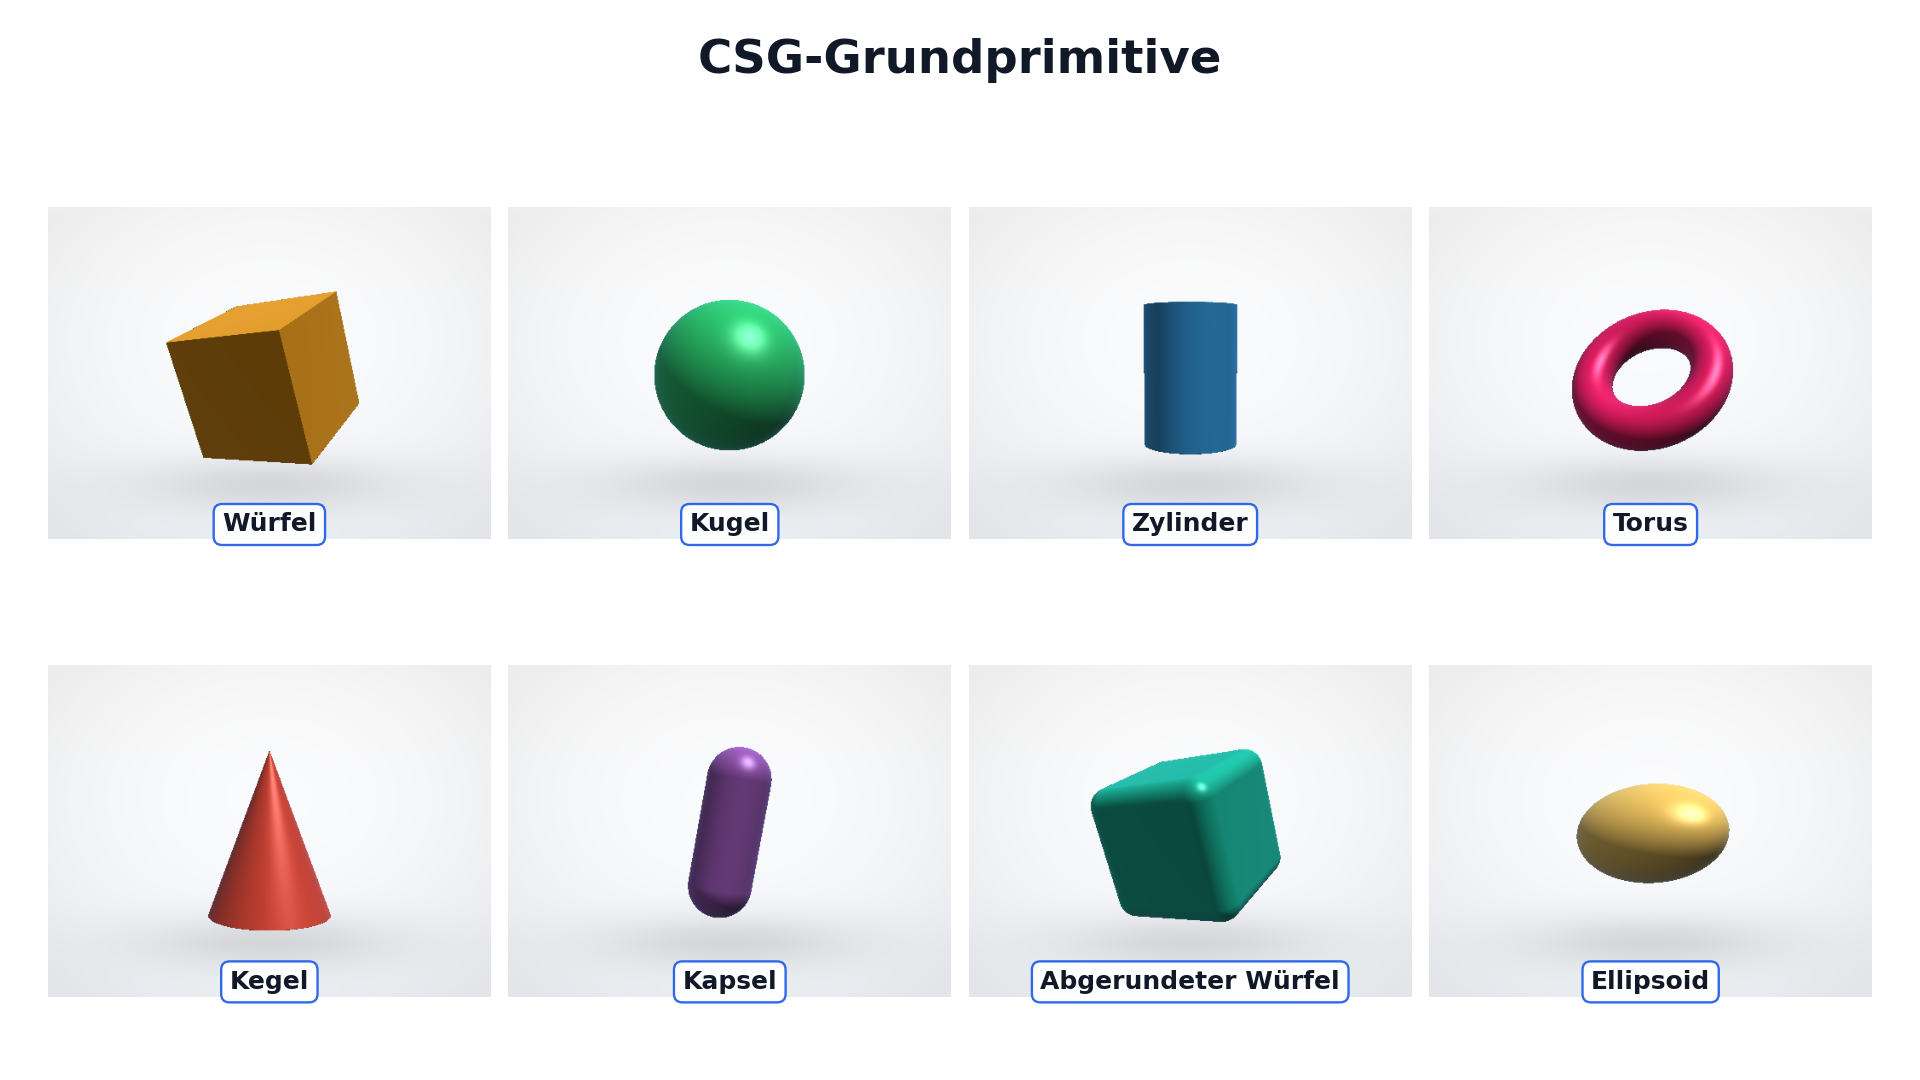
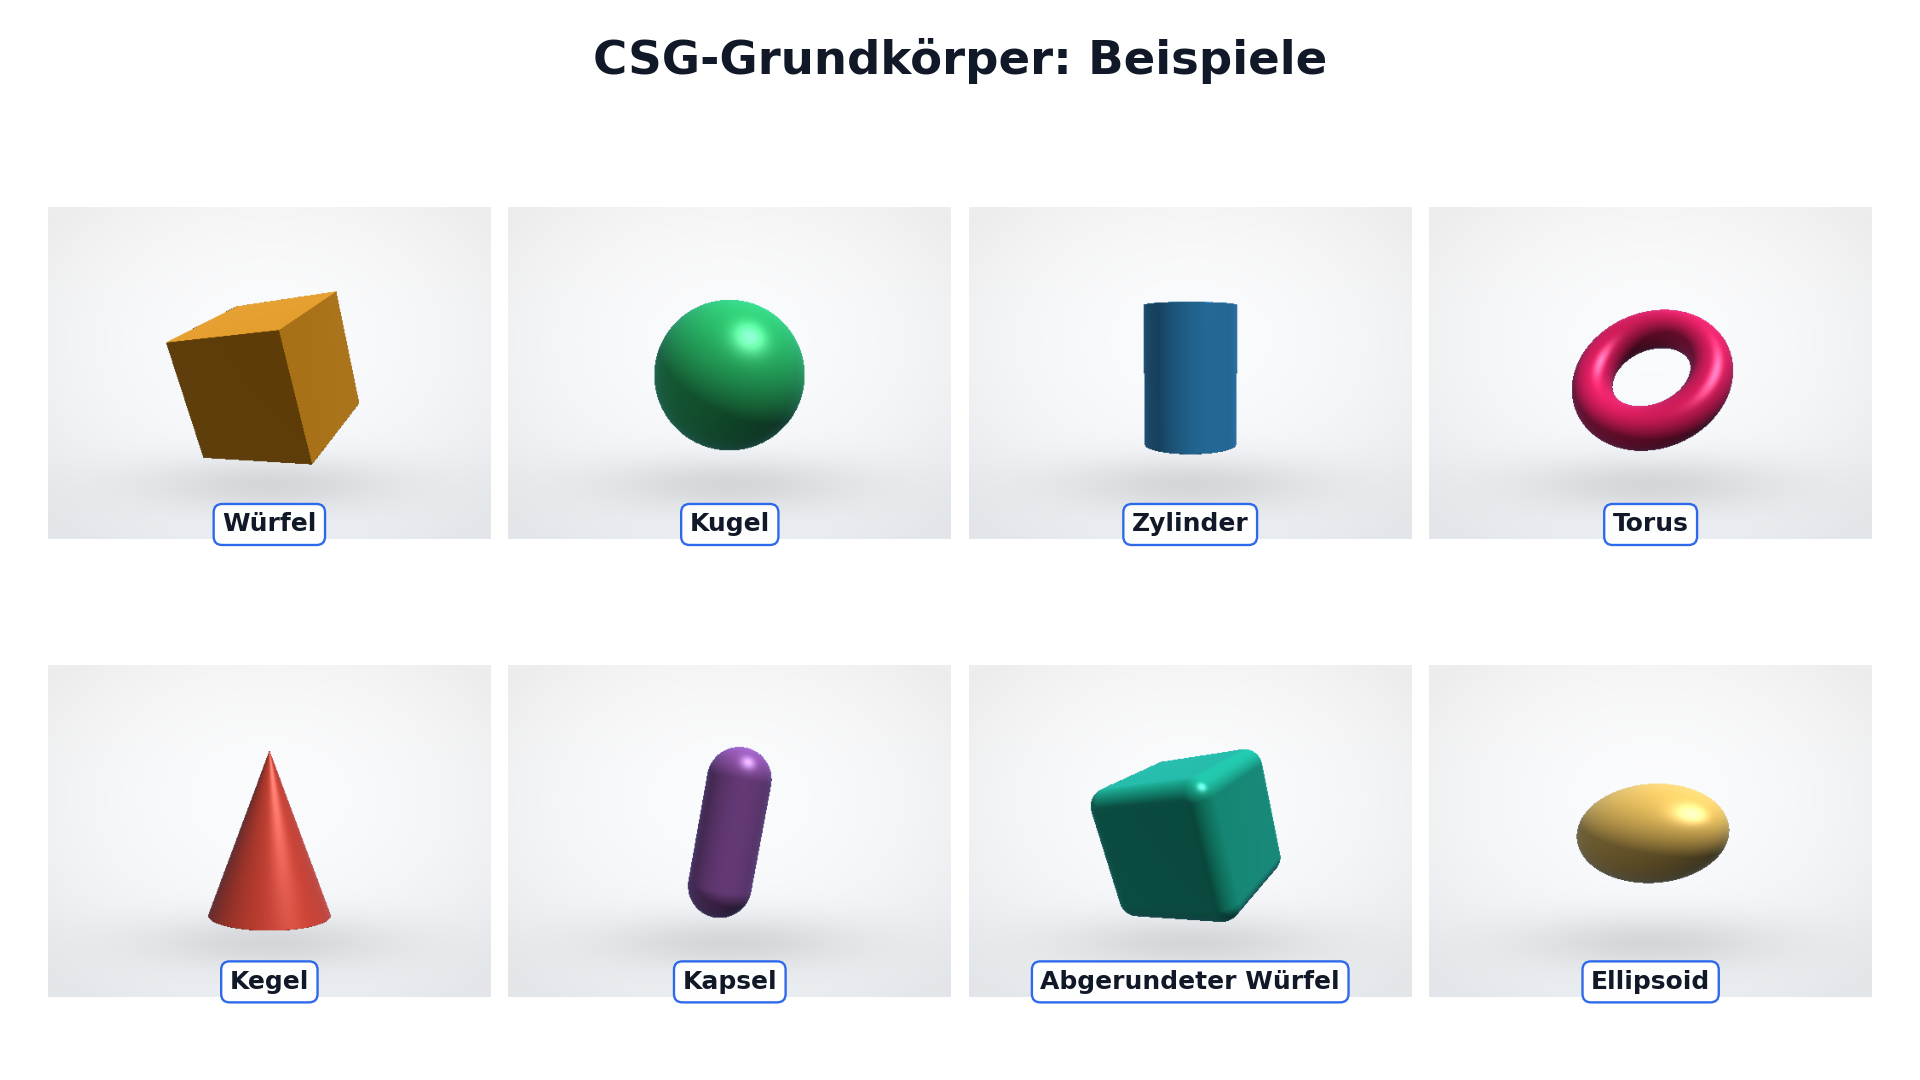
edit picture

Changed region(s): [[0.3125, 0.0306, 0.6875, 0.0917]]

diff --git a/presentation/csg-deep-dive/raymarch_preview.py b/presentation/csg-deep-dive/raymarch_preview.py
@@ -292,7 +292,7 @@ def render_primitive_gallery():
 
     fig, axes = plt.subplots(2, 4, figsize=(16, 9))
     fig.patch.set_facecolor("#ffffff")
-    fig.suptitle("CSG-Grundprimitive", color="#111827", fontsize=28, weight="bold", y=0.965)
+    fig.suptitle("CSG-Grundkörper: Beispiele", color="#111827", fontsize=28, weight="bold", y=0.965)
 
     for ax, (label, fn, color, angles) in zip(axes.flatten(), primitives):
         img = render_primitive_tile(fn, color, angles)
